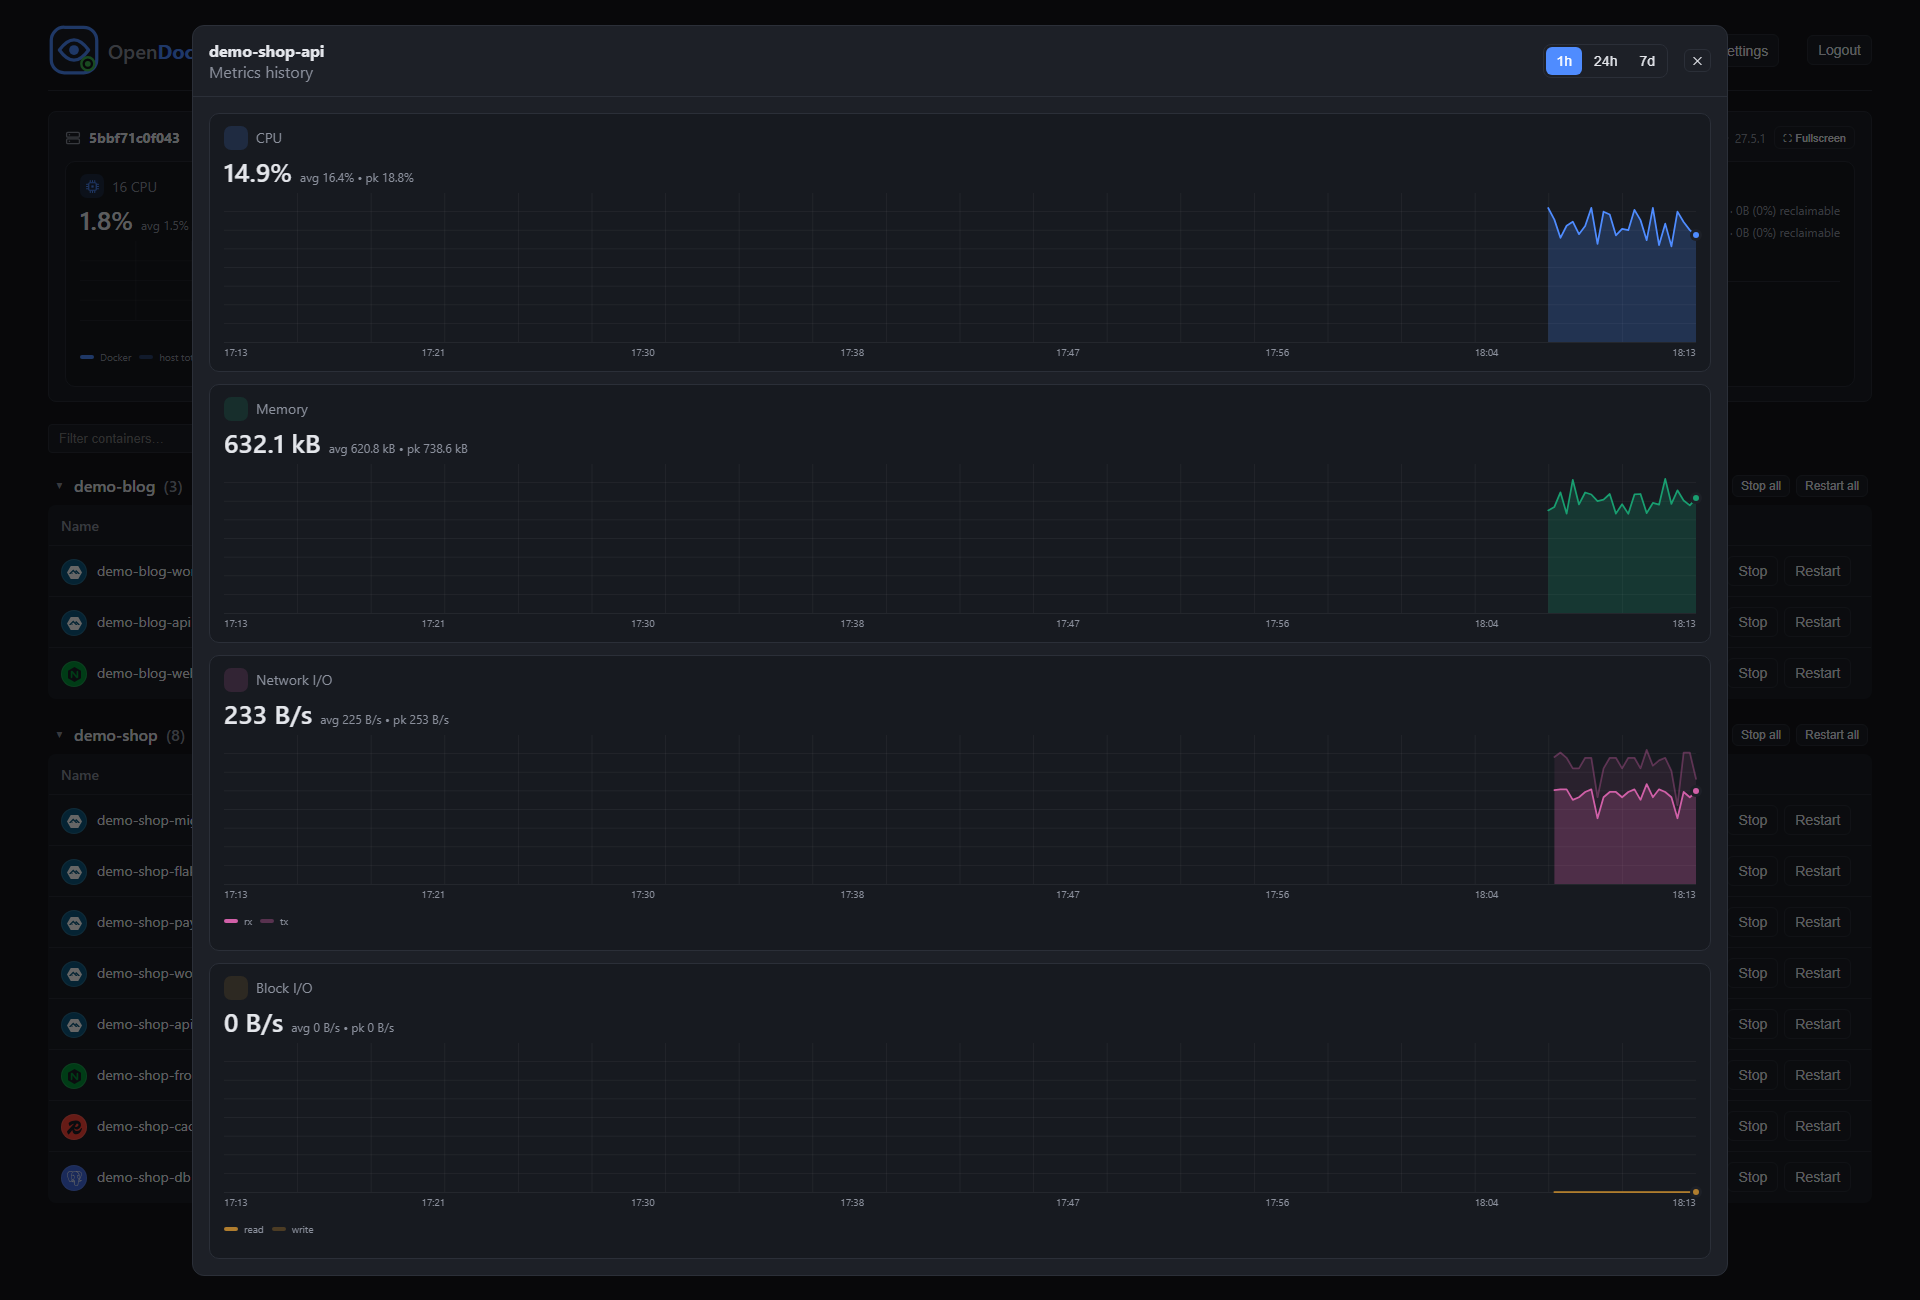
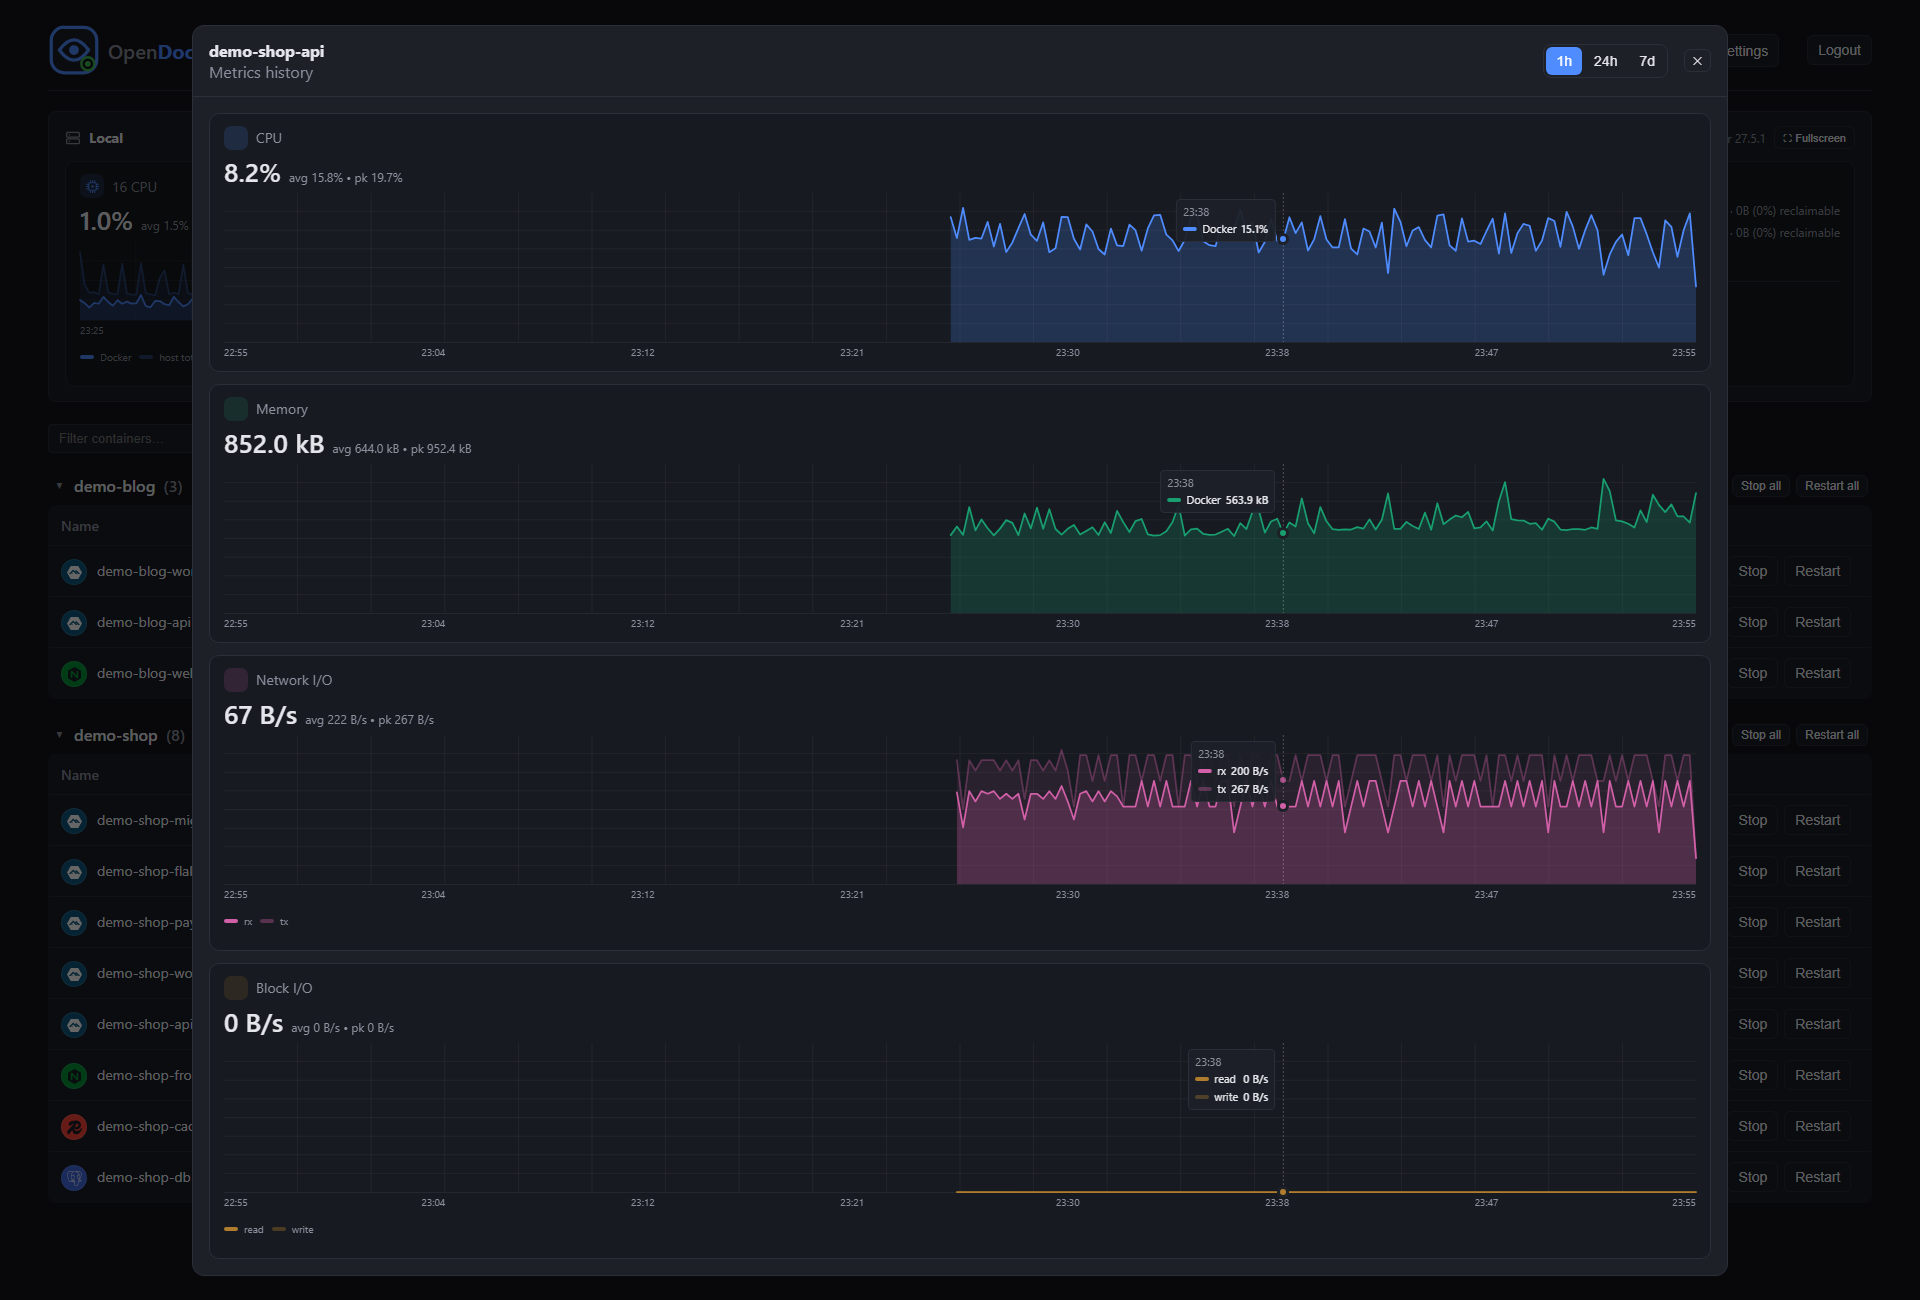
Update screenshots before release

diff --git a/scripts/screenshots.js b/scripts/screenshots.js
@@ -8,7 +8,7 @@ const URL = process.env.SCREENSHOT_URL || 'http://localhost:3100';
 const USER = process.env.SCREENSHOT_USER || 'demo';
 const PASS = process.env.SCREENSHOT_PASS;
 const OUT = process.env.SCREENSHOT_OUT || path.join(__dirname, '..', 'screenshots');
-const WARM_MS = Number(process.env.SCREENSHOT_WARM_MS || 360_000);
+const WARM_MS = Number(process.env.SCREENSHOT_WARM_MS || 1_800_000);
 const SCALE = Number(process.env.SCREENSHOT_SCALE || 1);
 
 // 1920x1300. Wide because the details panel is a fixed 520px and at 1600 it squeezed the table
@@ -82,7 +82,7 @@ async function main() {
   }
 
   // The row sparklines come from a client-side buffer that starts empty on load and fills over
-  // ~2 minutes. The host card's 30-minute chart is server-persisted, so it survives the reload.
+  // ~2 minutes. The host card's 30-minute chart is server-persisted; the 30-minute default lets it fill.
   console.log(`warming the row sparkline buffer (${Math.round(WARM_MS / 1000)}s)`);
   await page.waitForTimeout(WARM_MS);
 
@@ -208,7 +208,7 @@ async function main() {
     await ack.click();
     await page.waitForTimeout(1200);
   }
-  await page.locator('input[placeholder="Search events…"]').fill('demo-shop-cache');
+  await page.locator('input[placeholder="Search events…"]').fill('demo-shop-flaky');
   await page.waitForTimeout(1200);
   await shot('activity-view');
 

diff --git a/CONTRIBUTING.md b/CONTRIBUTING.md
@@ -48,17 +48,18 @@ It refuses to run against a host whose containers aren't the demo ones, so a str
 private container names in the README. `SCREENSHOT_URL` (default `http://localhost:3100`),
 `SCREENSHOT_USER` (default `demo`), `SCREENSHOT_OUT` and `SCREENSHOT_SCALE` are the other knobs.
 
-It waits a couple of minutes before the first shot on purpose: the row sparklines fill from an
+It waits 30 minutes before the first shot on purpose: the row sparklines fill from an
 in-memory buffer that starts empty on page load, and the host card's chart covers 30 minutes, so
 leave the stack running a while before shooting or those charts render as slivers. `SCREENSHOT_SCALE=2`
 renders at 2x for a hidpi-crisp result, at approximately four times the file size — the committed
-set is 1x, which keeps all nine under 2MB.
+set is 1x, which keeps all ten to about 2.3MB.
 
 Settings that matter when retaking the set:
 
-- **Warm-up is 6 minutes** (`SCREENSHOT_WARM_MS`, default 360000). The old 135s left the host
-  card's chart and the metrics modal looking thin. Start the stack, wait, then run the script;
-  a fresh data directory (`rm -rf data/*` on the throwaway mount) avoids stale history.
+- **Warm-up is 30 minutes** (`SCREENSHOT_WARM_MS`, default 1800000), the span of the host card's
+  chart, so every chart shows a full window of history. The earlier 135s and then 6 minutes left
+  the charts looking thin. A fresh data directory (`rm -rf data/*` on the throwaway mount) avoids
+  stale history.
 - **The Logs tab shot opens four panes** (shop-api, shop-worker, blog-api, shop-payments) in
   Multi mode. One pane undersells the tab, whose point is side-by-side, timestamp-synced logs.
   The script clicks "Multi" first because a remembered single-pane choice would otherwise stick.
